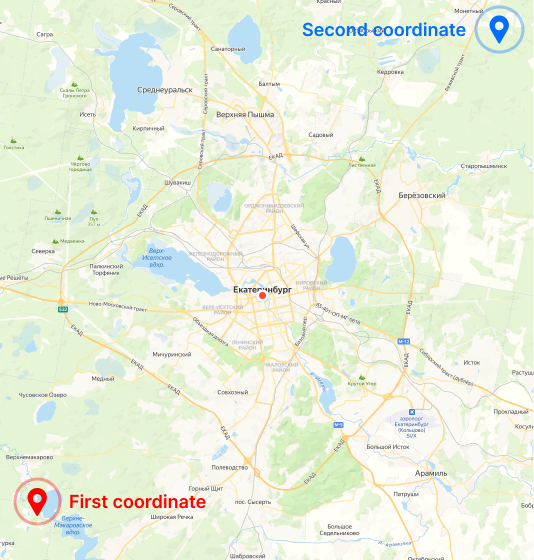
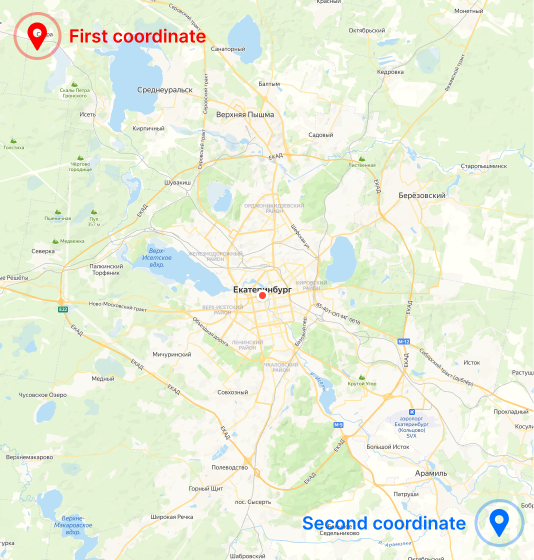
refactor: The new position of the specified coordinates

diff --git a/README_RU.md b/README_RU.md
@@ -122,7 +122,7 @@ Example:
 
 **Важно!** Чтобы отрицательные значения координат учитывались, их необходимо указывать через следующий синтаксис:
 ```
-... --fcoord-lat=-87.5
+... --fcoord-lat=-56.674619
 ```
 
 ### fсoord-lat [Double]
@@ -131,7 +131,7 @@ Example:
 
 Пример:
 ```
-... --fсoord-lat=56.674619
+... --fсoord-lat=57.02137767
 ```
 
 
@@ -141,7 +141,7 @@ Example:
 
 Пример:
 ```
-... --fсoord-lon=60.287416
+... --fсoord-lon=120
 ```
 
 
@@ -151,7 +151,7 @@ Example:
 
 Пример:
 ```
-... --fсoord-lat=57.029763
+... --fсoord-lat=42.7
 ```
 
 ### sсoord-lon [Double]
@@ -160,7 +160,7 @@ Example:
 
 Пример:
 ```
-... --fсoord-lat=60.921877
+... --fсoord-lat=143.1
 ```
 
 ****

diff --git a/README.md b/README.md
@@ -132,7 +132,7 @@ Latitude of first coordinate.
 
 Example:
 ```
-... --fсoord-lat=56.674619
+... --fсoord-lat=57.02137767
 ```
 
 
@@ -142,7 +142,7 @@ Longtitude of first coordinate.
 
 Example:
 ```
-... --fсoord-lon=60.287416
+... --fсoord-lon=120
 ```
 
 
@@ -152,7 +152,7 @@ Latitude of second coordinate.
 
 Example:
 ```
-... --sсoord-lat=57.029763
+... --sсoord-lat=42.7
 ```
 
 ### sсoord-lon [Double]
@@ -161,7 +161,7 @@ Longtitude of second coordinate.
 
 Example:
 ```
-... --sсoord-lon=60.921877
+... --sсoord-lon=143.1
 ```
 
 ****
